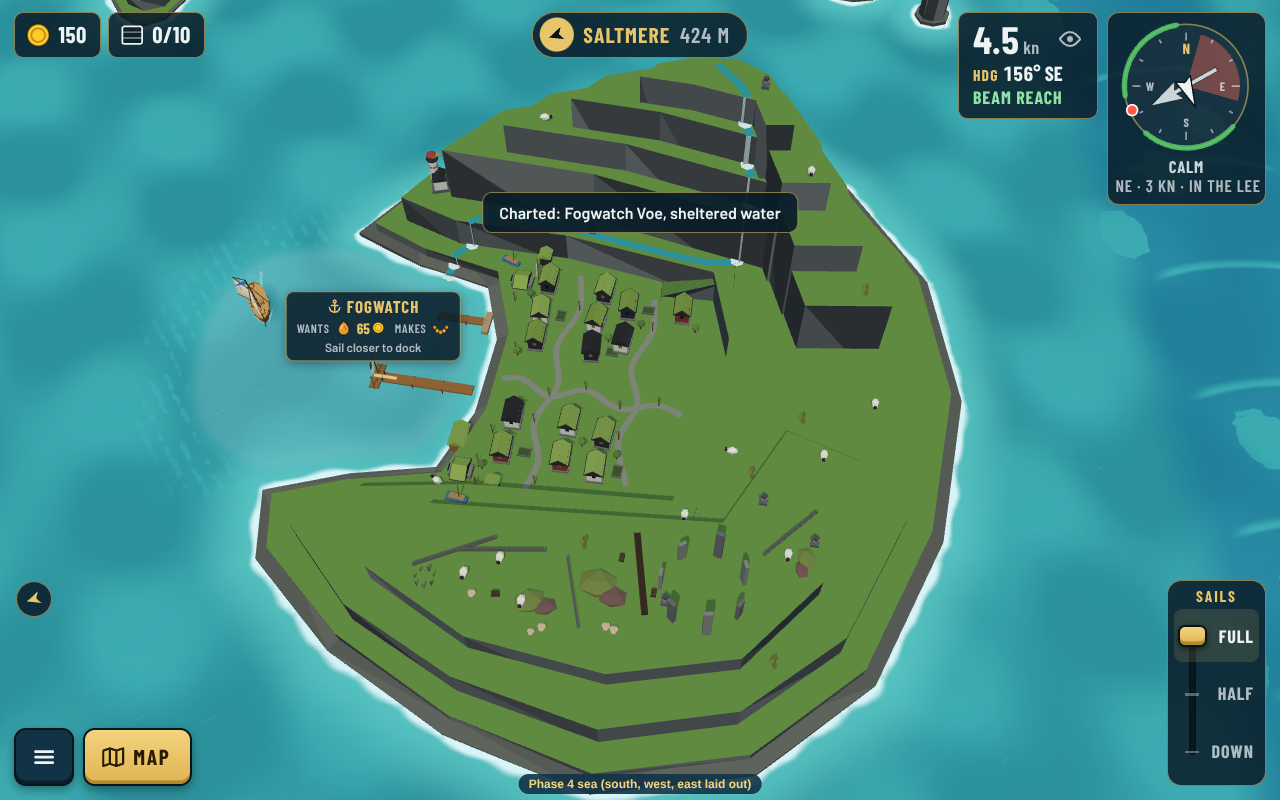
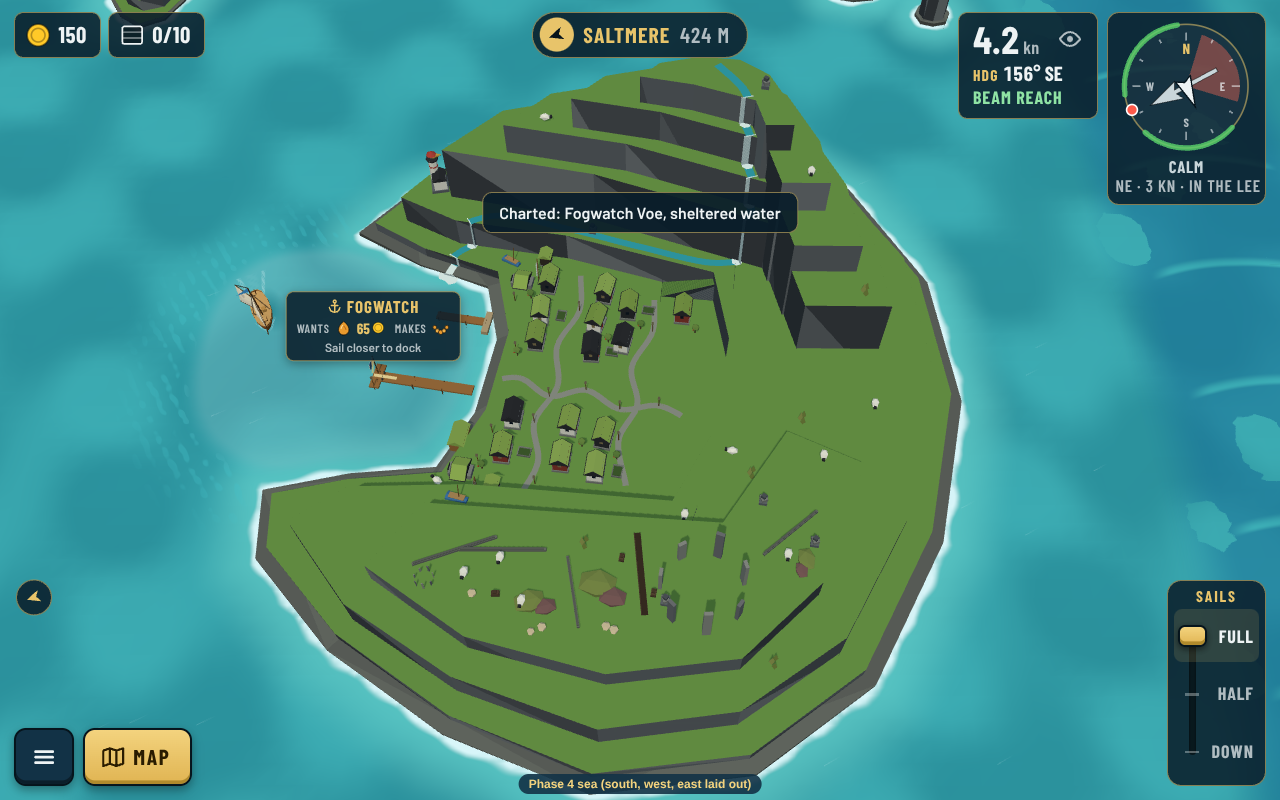
Waterfall into the sea: spill over the beach, wider falls with a white lip, flatter foam (Art director review)
Claude-Session: https://claude.ai/code/session_016woYKHL37N2LpcxnCQsLjb

diff --git a/src/render/models/rivers.ts b/src/render/models/rivers.ts
@@ -21,6 +21,8 @@ export const RIVER_COLORS = {
 
 /** How far a river lies above the land. */
 const LIFT = 0.05;
+/** How much wider than the stream a waterfall's sheet is. */
+const FALL_WIDE = 1.5;
 /** Samples per island-radius unit along the river. */
 const SAMPLES = 90;
 
@@ -85,10 +87,20 @@ export function riverParts(layout: IslandLayout, river: RiverDef, R: number): Pa
     return a.h !== null && fallsBetween(layout, a.x, a.z, b.x, b.z);
   });
   const fallsAt = (i: number) => drops[i]!;
+  // A water fall that lands on the beach just above the sea spills on over the shingle and off
+  // its edge into the sea, so it never seems to stop in mid-air: from `spill` on, the river is
+  // white foam on the beach, falls again at the water's edge, and its foam lies on the sea.
+  let spill = samples.length;
+  if (!lava && samples[samples.length - 1]!.h === null) {
+    let k = samples.length - 1;
+    while (k > 1 && samples[k - 1]!.h !== null && samples[k - 1]!.h! * R <= 0.01) k--;
+    if (k < samples.length - 1 && fallsAt(k)) spill = k;
+  }
   const out: Parts = [];
   for (const band of bands) {
     const flat: P3[] = [];
     const falls: P3[] = [];
+    const lips: P3[] = [];
     const side = (i: number) => {
       const a = samples[Math.max(0, i - 1)]!,
         b = samples[Math.min(samples.length - 1, i + 1)]!;
@@ -101,17 +113,32 @@ export function riverParts(layout: IslandLayout, river: RiverDef, R: number): Pa
         b = samples[i]!;
       const [ax, az] = side(i - 1),
         [bx, bz] = side(i);
-      const ya = y(a.h) + band.lift,
+      let ya = y(a.h) + band.lift,
         yb = y(b.h) + band.lift;
+      if (i > spill) ya = yb = BEACH_TOP + band.lift;
       const A = [a.x * R, a.z * R],
         B = [b.x * R, b.z * R];
-      const quad = (p: number[], q: number[], yp: number, yq: number) => {
-        const pl: P3 = [p[0]! + ax, yp, p[1]! + az],
-          pr: P3 = [p[0]! - ax, yp, p[1]! - az],
-          ql: P3 = [q[0]! + bx, yq, q[1]! + bz],
-          qr: P3 = [q[0]! - bx, yq, q[1]! - bz];
-        flat.push(pl, pr, qr, pl, qr, ql);
+      const quad = (p: number[], q: number[], yp: number, yq: number, to = flat, k = 1) => {
+        const pl: P3 = [p[0]! + ax * k, yp, p[1]! + az * k],
+          pr: P3 = [p[0]! - ax * k, yp, p[1]! - az * k],
+          ql: P3 = [q[0]! + bx * k, yq, q[1]! + bz * k],
+          qr: P3 = [q[0]! - bx * k, yq, q[1]! - bz * k];
+        to.push(pl, pr, qr, pl, qr, ql);
       };
+      if (i > spill && b.h !== null) {
+        quad(A, B, ya, yb, lips);
+        continue;
+      }
+      if (i > spill) {
+        // Off the beach's edge into the sea.
+        const M = [(A[0]! + B[0]!) / 2, (A[1]! + B[1]!) / 2];
+        quad(A, M, ya, ya, lips);
+        const [mx, mz] = [((ax + bx) / 2) * FALL_WIDE, ((az + bz) / 2) * FALL_WIDE];
+        const l: P3 = [M[0]! + mx, ya, M[1]! + mz],
+          r: P3 = [M[0]! - mx, ya, M[1]! - mz];
+        falls.push(l, r, [r[0], 0, r[2]], l, [r[0], 0, r[2]], [l[0], 0, l[2]]);
+        continue;
+      }
       if (!fallsAt(i)) {
         quad(A, B, ya, yb);
         continue;
@@ -120,16 +147,22 @@ export function riverParts(layout: IslandLayout, river: RiverDef, R: number): Pa
       const M = [(A[0]! + B[0]!) / 2, (A[1]! + B[1]!) / 2];
       quad(A, M, ya, ya);
       quad(M, B, yb, yb);
-      const [mx, mz] = [(ax + bx) / 2, (az + bz) / 2];
+      // Water falls as a sheet wider than the stream, with a white lip where it tips over.
+      const wide = lava ? 1 : FALL_WIDE;
+      const [mx, mz] = [((ax + bx) / 2) * wide, ((az + bz) / 2) * wide];
       const top = Math.max(ya, yb),
         bottom = Math.min(ya, yb);
+      if (!lava) {
+        const L = [A[0]! + (M[0]! - A[0]!) * 0.4, A[1]! + (M[1]! - A[1]!) * 0.4];
+        quad(L, M, top + LIFT * 0.2, top + LIFT * 0.2, lips, wide);
+      }
       const l: P3 = [M[0]! + mx, top, M[1]! + mz],
         r: P3 = [M[0]! - mx, top, M[1]! - mz];
       const lb: P3 = [l[0], bottom, l[2]],
         rb: P3 = [r[0], bottom, r[2]];
       falls.push(l, r, rb, l, rb, lb);
-      // Foam or steam where it lands.
-      out.push(...splash(lava, B[0]!, bottom, B[1]!, b.w * R, band.glow));
+      // Foam or steam where it lands (a spill takes its foam down to the sea).
+      if (i !== spill) out.push(...splash(lava, B[0]!, bottom, B[1]!, b.w * R, band.glow));
     }
     const ribbon = paint(mesh(flat, true), band.color);
     out.push(band.glow ? molten(ribbon) : ribbon);
@@ -137,6 +170,7 @@ export function riverParts(layout: IslandLayout, river: RiverDef, R: number): Pa
       const sheet = paint(mesh(falls, false), lava ? band.color : RIVER_COLORS.white);
       out.push(band.glow ? molten(sheet) : sheet);
     }
+    if (lips.length) out.push(paint(mesh(lips, true), RIVER_COLORS.white));
   }
   const mouth = samples[samples.length - 1]!;
   if (mouth.h === null)
@@ -160,8 +194,9 @@ function splash(
 ): Parts {
   if (lava && core) return [];
   if (!lava) {
-    const foam = new THREE.CircleGeometry(width * 0.9, 7).rotateX(-Math.PI / 2);
-    return [paint(foam.translate(x, y + LIFT * 1.5, z), RIVER_COLORS.white)];
+    // A low spill on a ledge; a wider ring on the sea, lying on the water.
+    const foam = new THREE.CircleGeometry(width * (sea ? 1.5 : 0.75), 7).rotateX(-Math.PI / 2);
+    return [paint(foam.translate(x, y + LIFT * (sea ? 1.5 : 1.1), z), RIVER_COLORS.white)];
   }
   const puffs = sea ? 3 : 2;
   const out: Parts = [];

diff --git a/tests/island-files.test.ts b/tests/island-files.test.ts
@@ -148,7 +148,7 @@ const GOLDEN: Record<string, string[]> = {
   'palm-key': ['296:5af31071', '270:7e77b63a', '266:18f30d17', '266:18f30d17'],
   'lone-palm': Array(4).fill('13:2bd589f4'),
   // The east sea (decision 0173).
-  fogwatch: ['604:1677a5ab', '725:b60877e6', '797:ec776322', '838:e62dfee8'],
+  fogwatch: ['604:eef2b453', '725:4a16efe', '797:9ba9cf9a', '838:1bad57b0'],
   'the-giant': Array(4).fill('6:c84f56e6'),
   'his-wife': Array(4).fill('6:676eecc4'),
   'amber-strand': ['129:e66b7b39', '133:56673594', '136:e68e96ec', '136:e68e96ec'],

diff --git a/docs/decisions/0175-fogwatch-detail-pass-beach-width-heather-peat-and-rowans.md b/docs/decisions/0175-fogwatch-detail-pass-beach-width-heather-peat-and-rowans.md
@@ -21,4 +21,6 @@ Guillaume asked the Art director to compare Fogwatch ([0173](0173-east-sea-fogwa
 
 ## Amended (2026-10-25): the waterfall
 
-With rivers in island files ([0176](0176-rivers-of-water-and-lava.md)), Fogwatch has one water river: it rises on the top fell, drops down the four basalt tiers on their town-facing side as a stepped cascade, runs along the ledge above the voe and falls off the sea cliff into the voe by the harbour. It is on the south face so the camera and a player sailing in see it (a Múlafossur-style fall on the north coast would face away from the camera). Two drying racks, four sheep and a peat stack made room in the 6000-triangle budget (5796 at level 4). Data only: `npm run island -- fogwatch river --points …`.
+With rivers in island files ([0176](0176-rivers-of-water-and-lava.md)), Fogwatch has one water river: it rises on the top fell, drops down the four basalt tiers on their town-facing side as a stepped cascade, runs along the ledge above the voe and falls off the sea cliff into the voe by the harbour. It is on the south face so the camera and a player sailing in see it (a Múlafossur-style fall on the north coast would face away from the camera). Two drying racks, four sheep and a peat stack made room in the 6000-triangle budget (5796 at level 4). Added with `npm run island -- fogwatch river --points …`.
+
+After the Art director's review, three changes to how water rivers are drawn (`src/render/models/rivers.ts`, every island): a fall that lands on the beach next to the sea spills over the shingle as white foam and off the beach edge into the sea, with a ring of foam on the water, instead of stopping on the beach; waterfall sheets are 1.5 times the stream's width with a white lip where the water tips over; the foam at the foot of a fall is a smaller, lower spill.

diff --git a/docs/reviews/east-sea/README.md b/docs/reviews/east-sea/README.md
@@ -65,3 +65,5 @@ A stepped fall down the fell tiers, along the ledge and off the cliff into the v
 
 ![Overview with the waterfall](waterfall-over-desktop.png)
 ![The fall into the voe](waterfall-voe-desktop.png)
+![Where it lands in the voe](waterfall-landing-desktop.png)
+![The fall at night](waterfall-voe-night-desktop.png)
